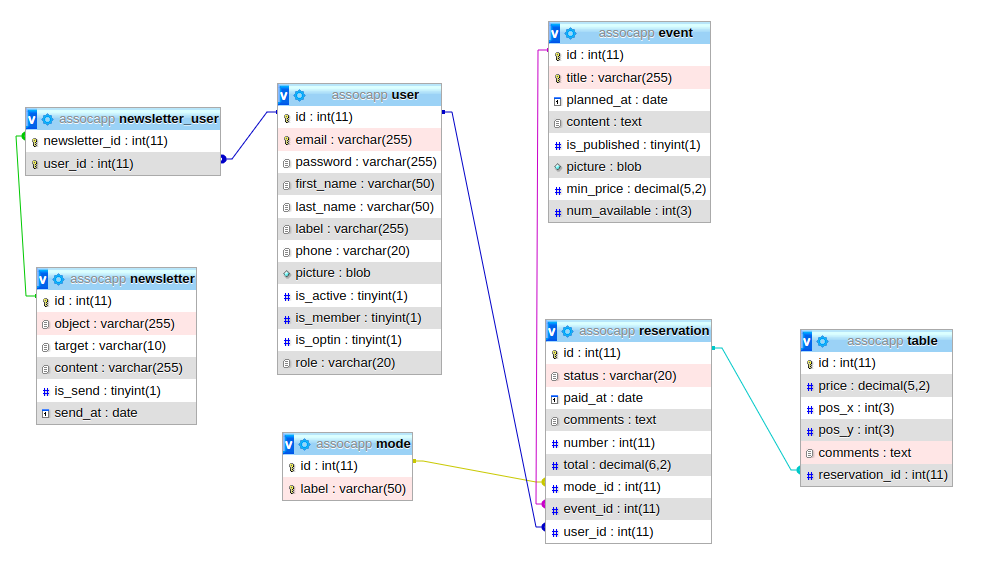
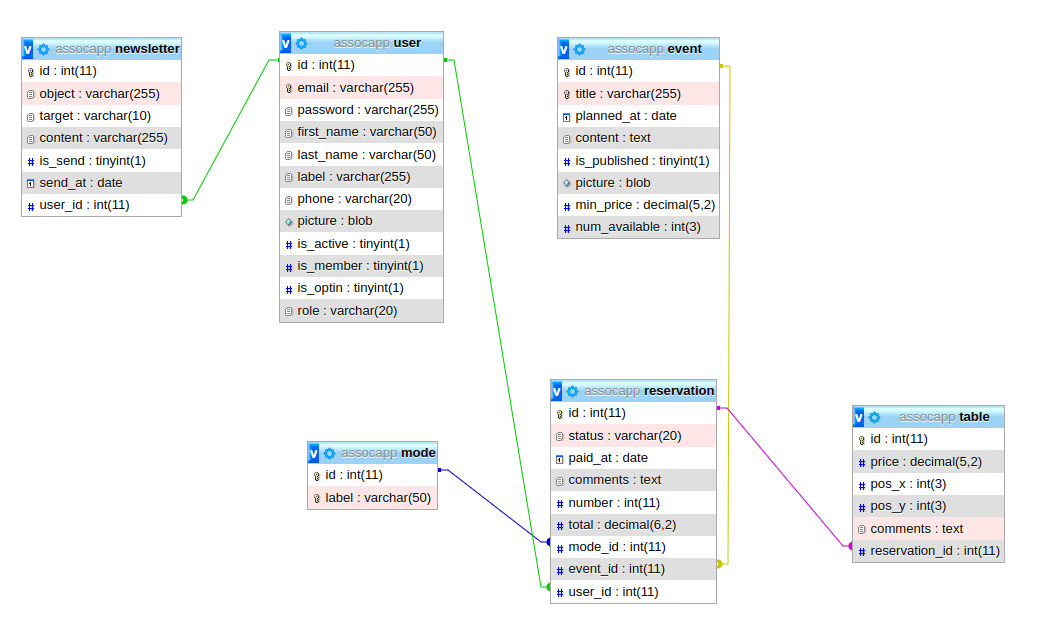
MAJ R Schema Relation & Realisation

diff --git a/docs/parts/base-donnees.md b/docs/parts/base-donnees.md
@@ -12,12 +12,12 @@
 
 **MPD -  Modèle Physique de Données**
 
-- newsletter ( **newsletter_id**, object, target, content, is_send, send_at, **#user_id**)
-- user ( **user_id**, email, password, first_name, last_name, label, picture, phone, is_active, is_member, is_optin, role)
-- event ( **event_id**, title, planned_at, picture, content, is_published, min_price, num_available)
-- reservation ( **reservation_id**, status, paid_at, comments, number, total, **#event_id**, **#user_id**, **#mode_id**)
-- mode ( **mode_id**, label)
-- table ( **table_id**, price, pos_x, pos_y, comments, **#reservation_id**)
+- newsletter ( **id**, object, target, content, is_send, send_at, **#user_id**)
+- user ( **id**, email, password, first_name, last_name, label, picture, phone, is_active, is_member, is_optin, role)
+- event ( **id**, title, planned_at, picture, content, is_published, min_price, num_available)
+- reservation ( **id**, status, paid_at, comments, number, total, **#event_id**, **#user_id**, **#mode_id**)
+- mode ( **id**, label)
+- table ( **id**, price, pos_x, pos_y, comments, **#reservation_id**)
 
 **Modèle relationnel (PHPMyAdmin)**
 
@@ -30,7 +30,7 @@
 |||||
 |-|-|-|-|
 |nom|description|type|règle|
-|newsletter_id|l'identifiant de la newsletter|entier|clé primaire|
+|id|l'identifiant de la newsletter|entier|clé primaire|
 |object|le titre de la newsletter|chaîne (255)|requis|
 |target|la cible de la newsletter ("Général" ou "Membres")|chaîne (10)|"Général" par défaut|
 |content|le contenu de la newsletter|texte|requis|
@@ -42,7 +42,7 @@
 |||||
 |-|-|-|-|
 |nom|description|type|règle|
-|user_id|l'identifiant de l'utilisateur|entier|clé primaire|
+|id|l'identifiant de l'utilisateur|entier|clé primaire|
 |email|l'adresse e-mail de l'utilisateur|chaîne (255)|requis, unique|
 |password|le mot de passe de l'utilisateur|chaîne (255)|requis|
 |first_name|le prénom de l'utilisateur|chaîne (50)|requis|
@@ -60,7 +60,7 @@
 |||||
 |-|-|-|-|
 |nom|description|type|règle|
-|event_id|l'identifiant de l'événement|entier|clé primaire|
+|id|l'identifiant de l'événement|entier|clé primaire|
 |title|l'intitulé de l'événement|chaîne (255)|requis, unique|
 |planned_at|la date prévue de l'événement (JJ/MM/AAAA)|date|requis|
 |picture|l'image d'illustration de l'événement|blob|optionnel|
@@ -74,7 +74,7 @@
 |||||
 |-|-|-|-|
 |nom|description|type|règle|
-|reservation_id|l'identifiant de la réservation|entier|clé primaire|
+|id|l'identifiant de la réservation|entier|clé primaire|
 |status|le statut de paiement ("A Payer", "Payé", "Annulé")|chaîne (20)|"A Payer" par défaut|
 |paid_at|la date de paiement (JJ/MM/AAAA)|date|date du jour par défaut|
 |comments|les commentaires de la réservation|texte|optionnel|
@@ -86,7 +86,7 @@
 |||||
 |-|-|-|-|
 |nom|description|type|règle|
-|mode_id|l'identifiant du mode de paiement|entier|clé primaire|
+|id|l'identifiant du mode de paiement|entier|clé primaire|
 |label|le libellé du mode de paiement|chaîne (50)|requis|
 
 **Table - Les tables**
@@ -94,7 +94,7 @@
 |||||
 |-|-|-|-|
 |nom|description|type|règle|
-|table_id|l'identifiant de la table|entier|clé primaire|
+|id|l'identifiant de la table|entier|clé primaire|
 |price|le prix individuel d'une table|décimal (5,2)|prix de base pour un événement par défaut|
 |pos_x|la position en abscisses (X) de la table|entier (3)|0 par défaut|
 |pos_y|la position en ordonnées (Y) de la table|entier (3)|0 par défaut|

diff --git a/docs/parts/realisation-projet.md b/docs/parts/realisation-projet.md
@@ -13,6 +13,8 @@ CREATE TABLE IF NOT EXISTS newsletter
     content VARCHAR(255),
     is_send BOOLEAN NOT NULL DEFAULT 0,
     send_at DATE NOT NULL DEFAULT NOW(),
+    user_id INTEGER NOT NULL,
+    FOREIGN KEY (user_id) REFERENCES user (id),
     INDEX (object)
 );
 ```
